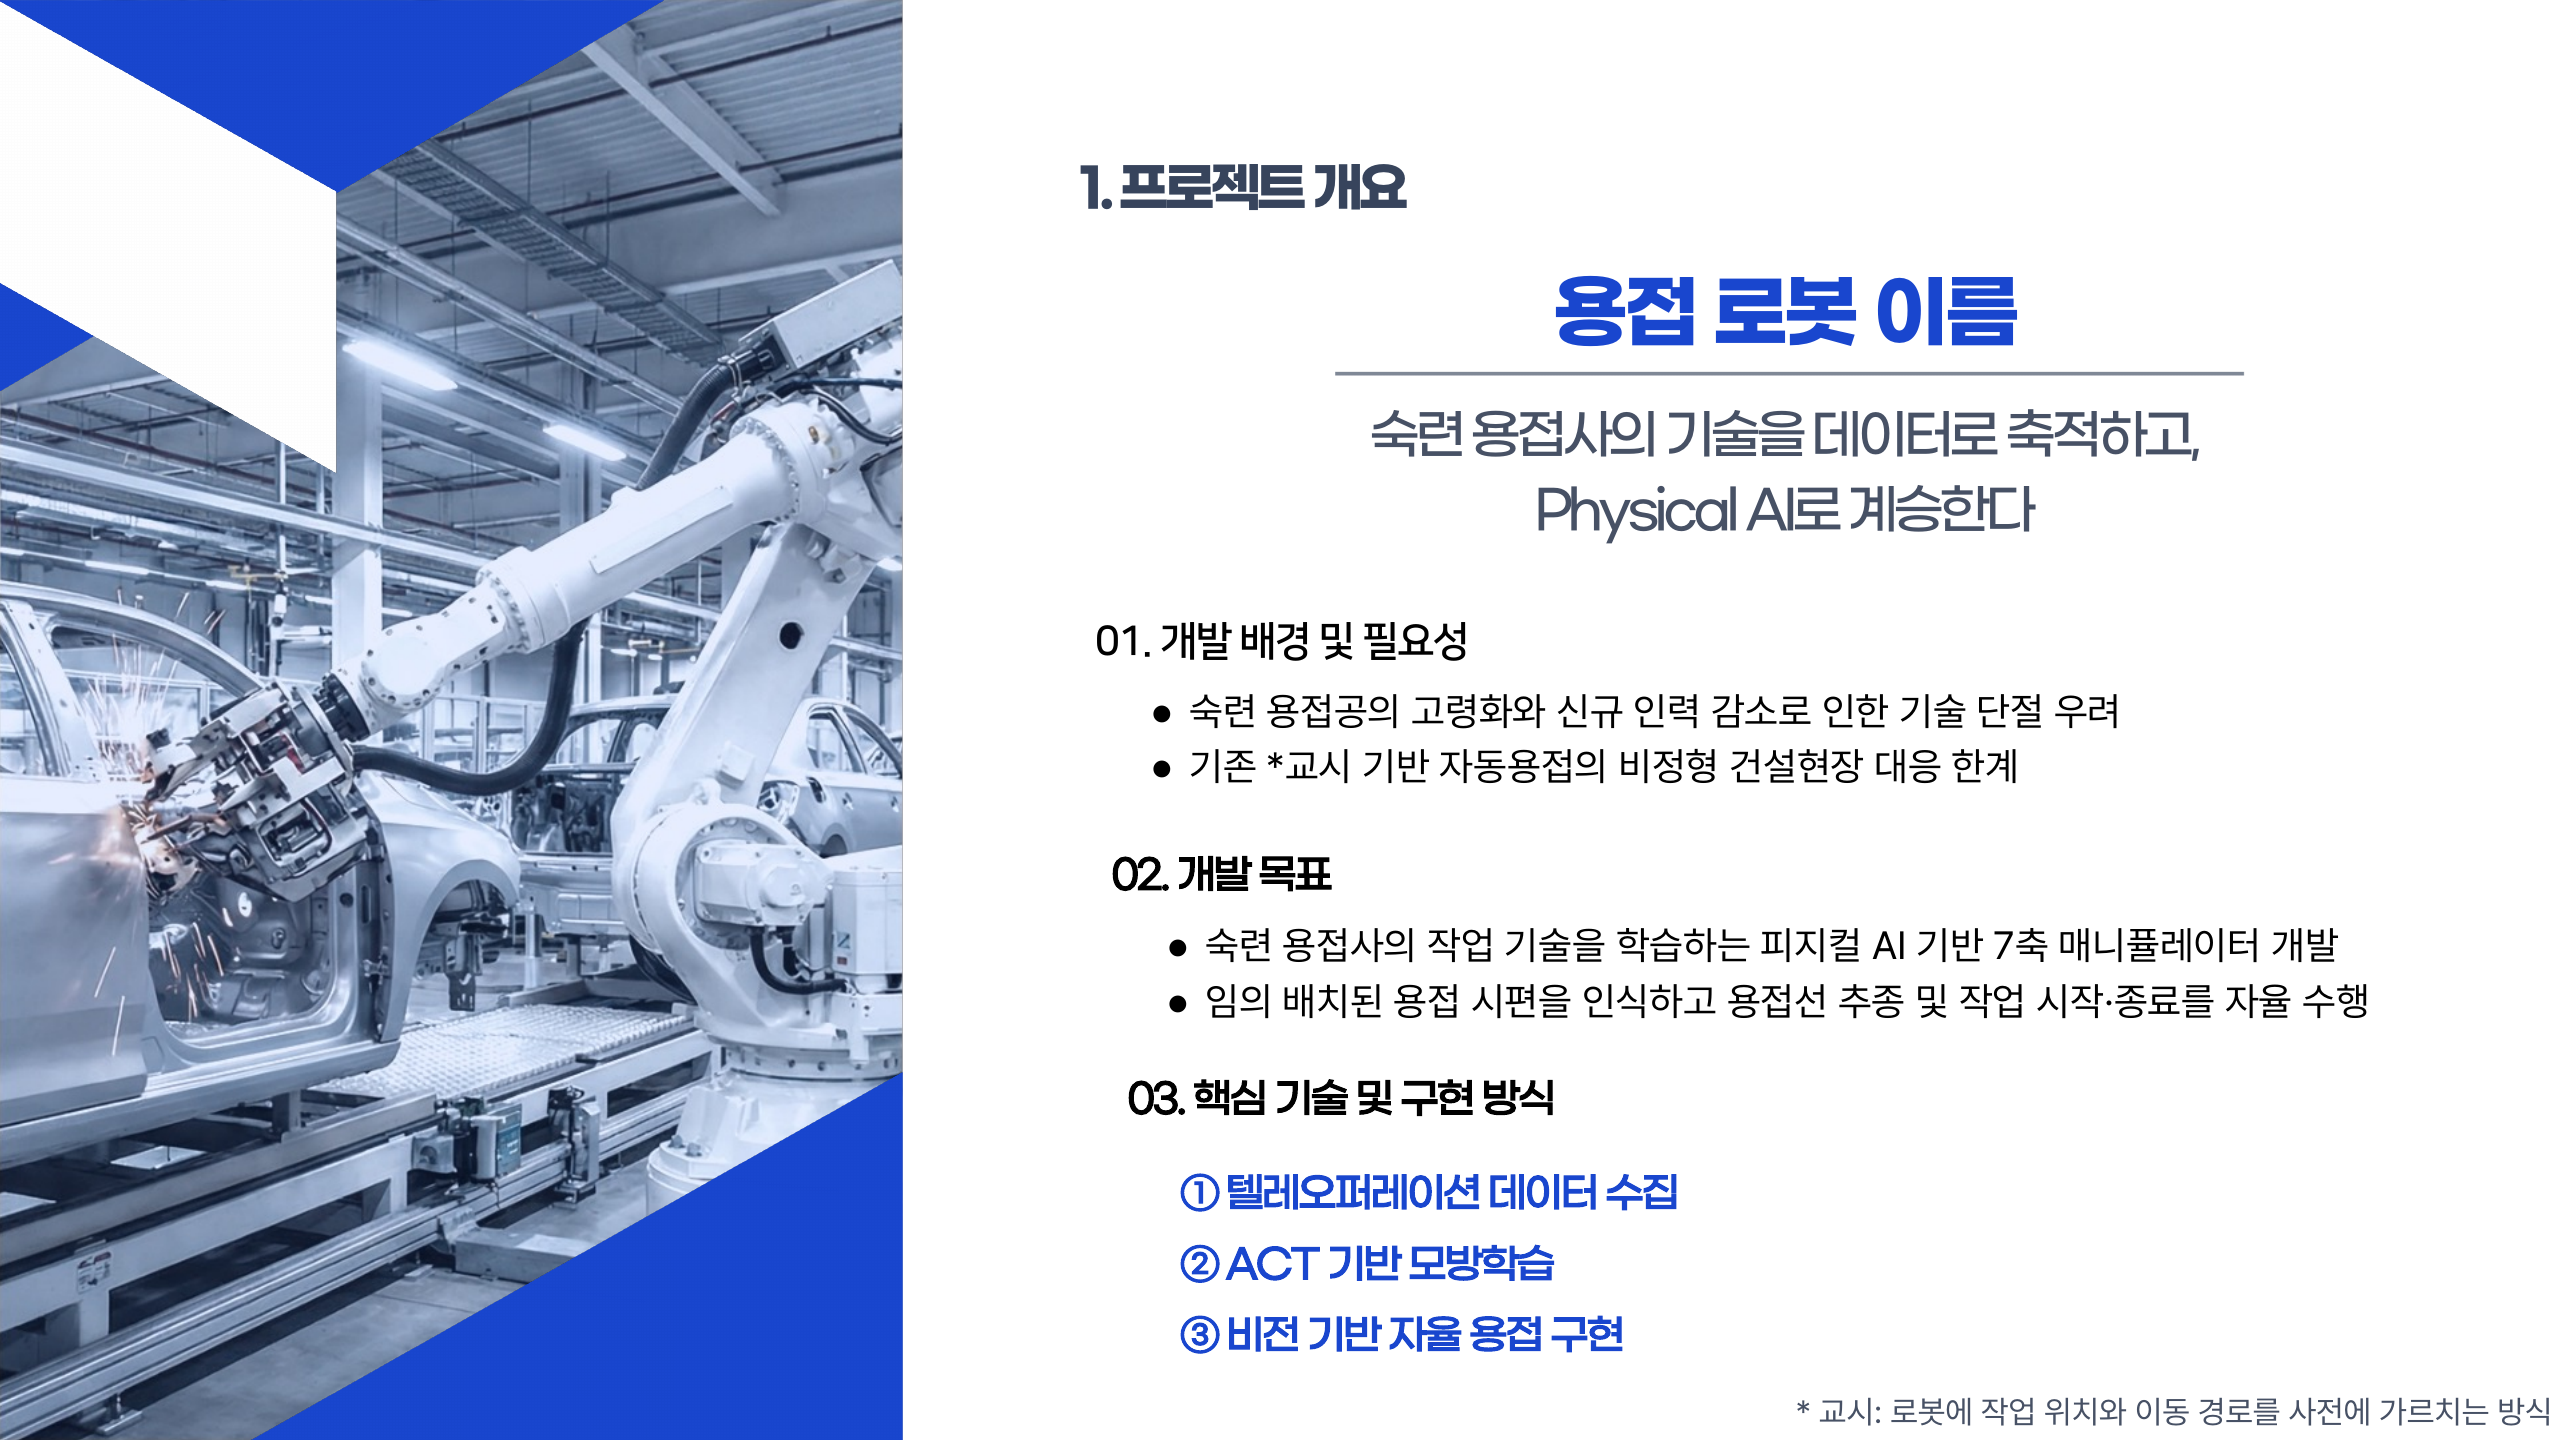
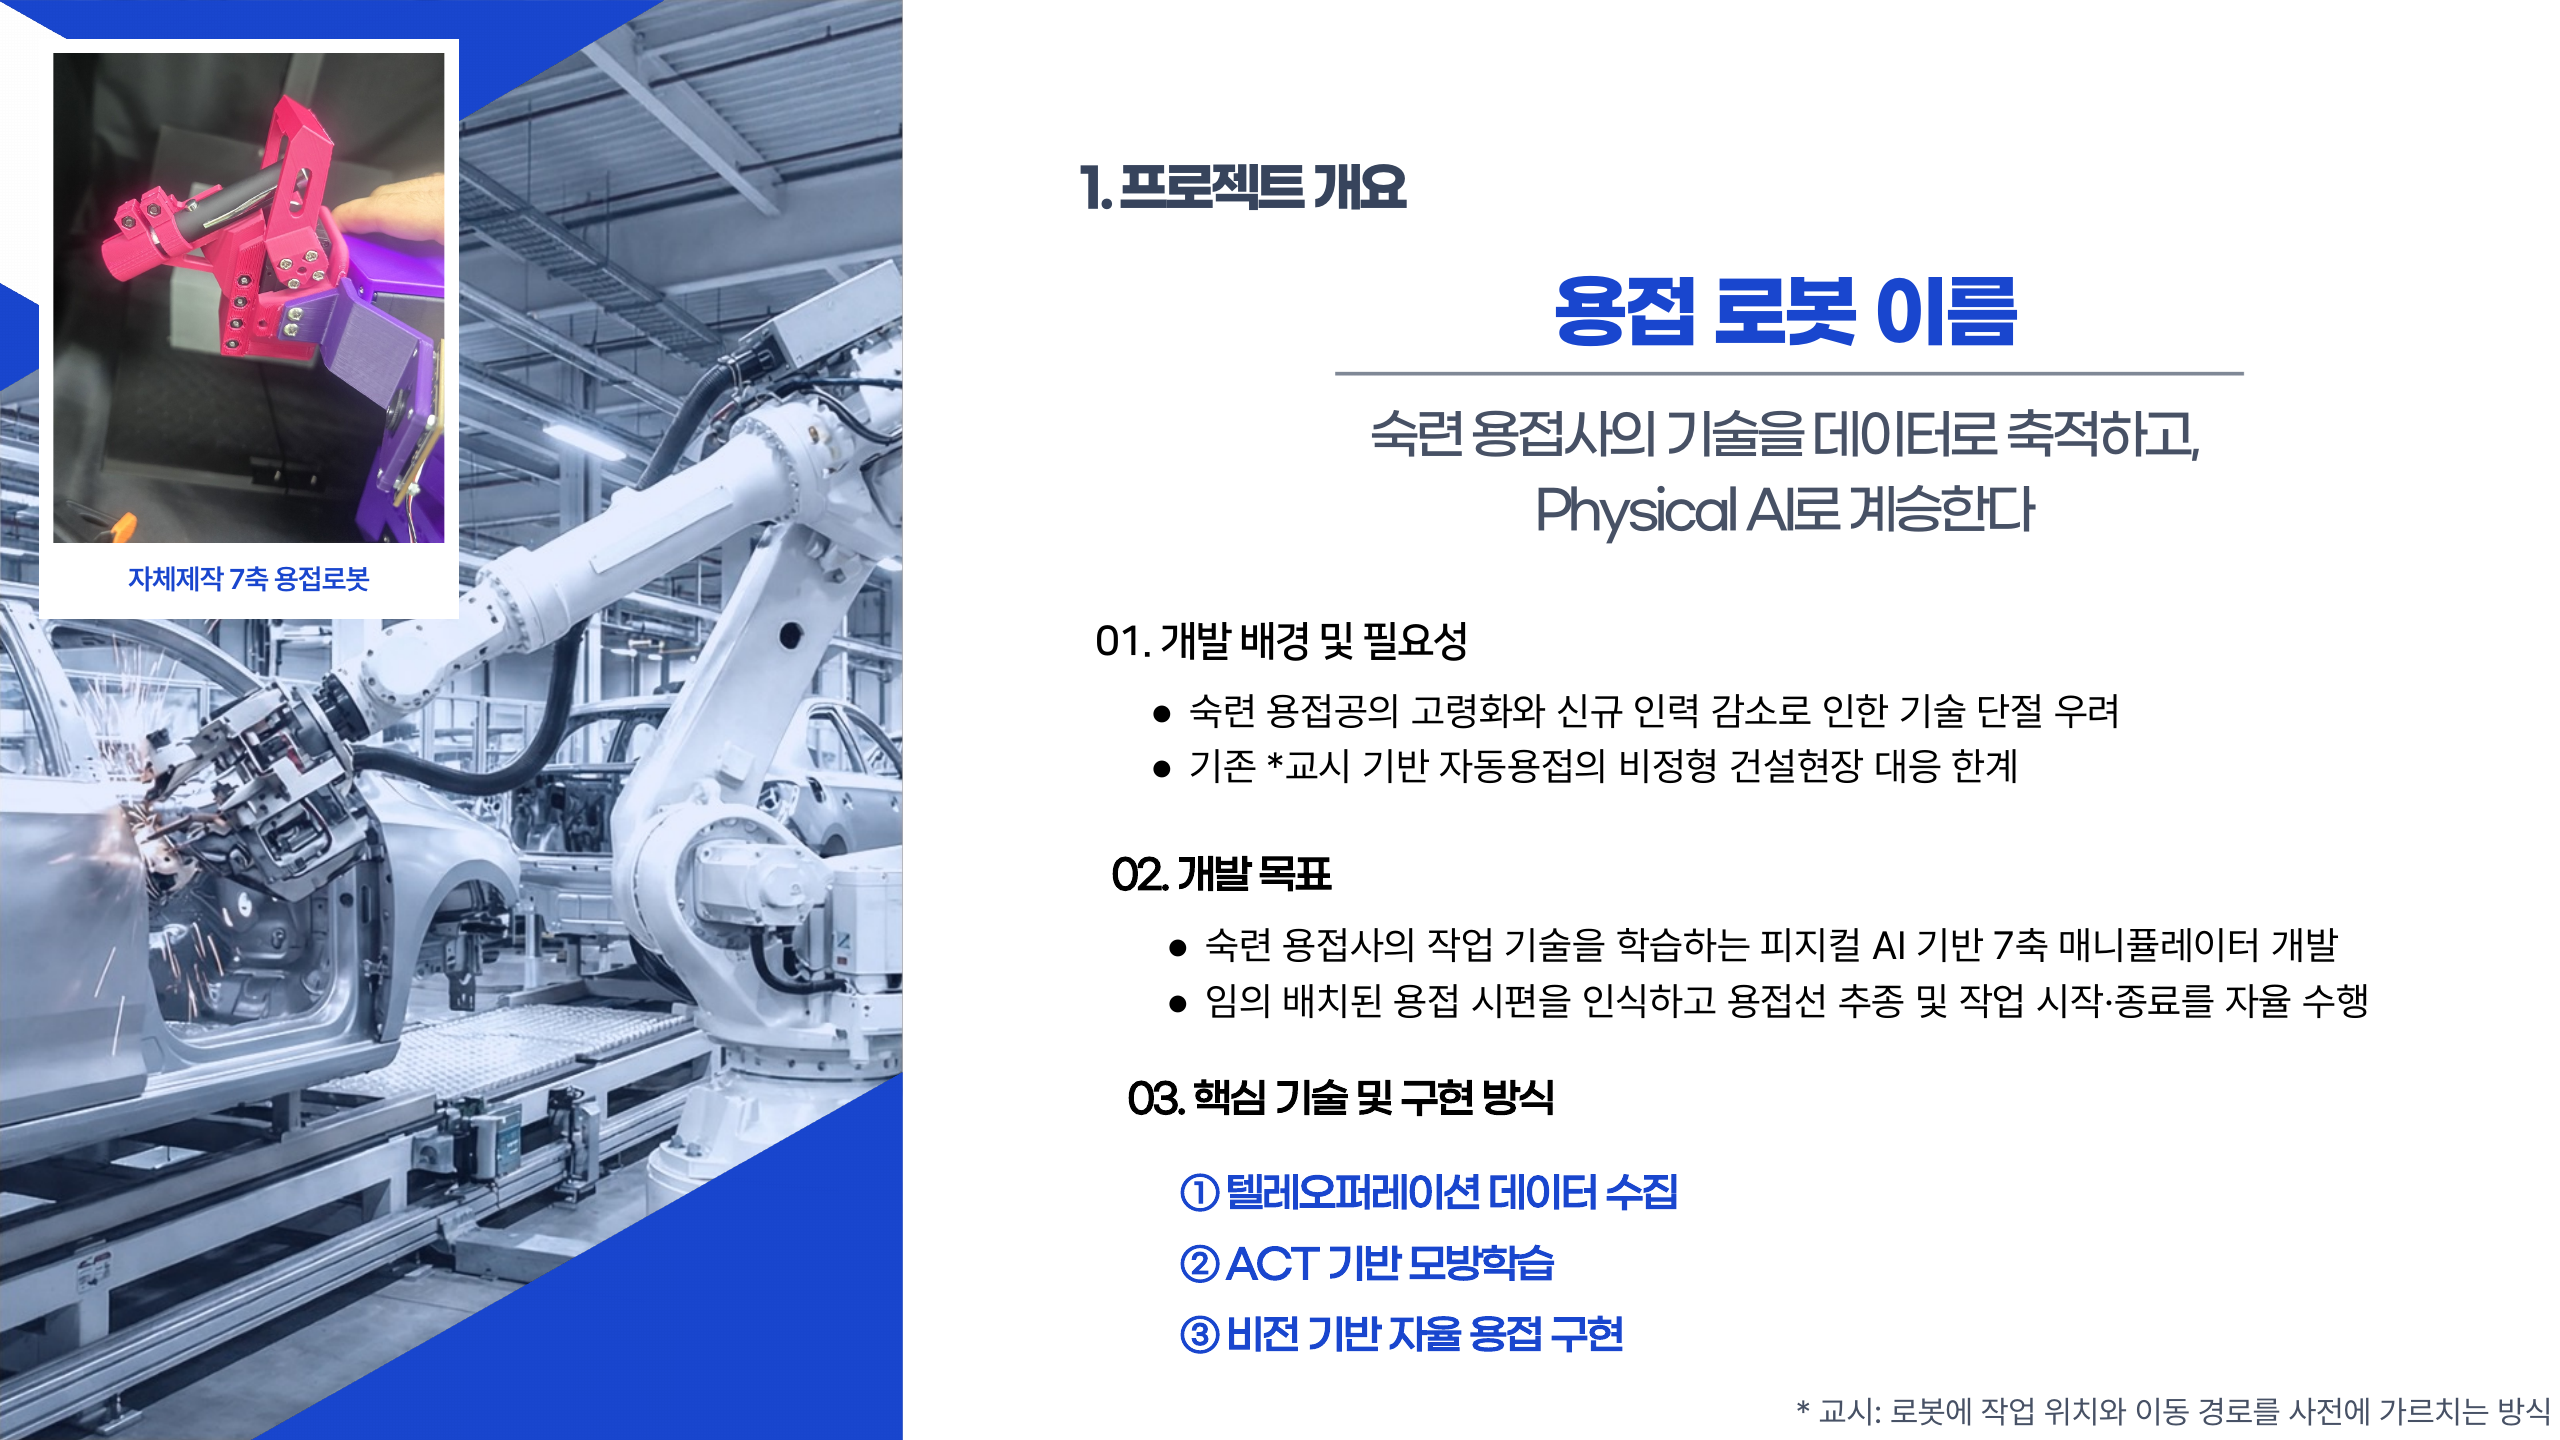
3장에 자체제작 용접로봇 사진, 15장에 OPTi3 실제 아크 용접 영상 추가

Changed region(s): [[0.0, 0.0, 0.1875, 0.4375]]

diff --git a/index.html b/index.html
@@ -43,7 +43,7 @@
 <main class="stage" id="stage">
   <img class="slide" src="deck/final/01.png" alt="2026 IRC 지능로봇대회 매니퓰레이터 종목. 제조 디지털 전환(DX) 7축 용접 로봇. 손태산, 김광빈, 김동희, 왕혜영">
   <img class="slide" src="deck/final/02.png" alt="목차" loading="lazy">
-  <img class="slide" src="deck/final/03.png" alt="1. 프로젝트 개요" loading="lazy">
+  <img class="slide" src="deck/final/03.png" alt="1. 프로젝트 개요. 자체제작 7축 용접로봇 사진" loading="lazy">
   <img class="slide" src="deck/final/04.png" alt="2. 프로젝트 수행 배경" loading="lazy">
   <img class="slide" src="deck/final/05.png" alt="3. 프로젝트 수행 필요성" loading="lazy">
   <img class="slide" src="deck/final/06.png" alt="4. 개발 목표 및 차별성" loading="lazy">
@@ -56,10 +56,13 @@
   <img class="slide" src="deck/final/13.png" alt="10. 결론 및 향후 과제" loading="lazy">
   <img class="slide" src="deck/final/14.png" alt="10. 결론 및 향후 과제: 한계점과 향후 과제" loading="lazy">
   <div class="slide">
-    <img src="deck/final/15.png" alt="참고. 기존 룰 베이스 용접로봇: OPTi3 용접로봇 시연과 룰 베이스, 본 프로젝트(ACT) 비교" loading="lazy">
-    <!-- PPT 15장 영상 자리(60, 228, 800×450pt / 1440×810pt)에 맞춰 올린 실제 영상 -->
-    <video class="clip" style="left:4.1667%; top:28.148%; width:55.556%; height:55.556%;"
+    <img src="deck/final/15.png" alt="참고. 기존 룰 베이스 용접로봇: OPTi3 용접로봇 전시 시연과 실제 아크 용접 영상, 룰 베이스와 본 프로젝트(ACT) 비교" loading="lazy">
+    <!-- PPT 15장 영상 자리(x 60/468, y 330, 392×294pt / 1440×810pt)에 맞춰 올린 실제 영상 -->
+    <video class="clip" style="left:4.1667%; top:40.741%; width:27.222%; height:36.296%;"
            src="deck/img/posco_clip.mp4" poster="deck/final/opti3_poster.jpg"
+           muted loop playsinline controls preload="none"></video>
+    <video class="clip" style="left:32.5%; top:40.741%; width:27.222%; height:36.296%;"
+           src="deck/img/weld_clip.mp4" poster="deck/final/arc_poster.jpg"
            muted loop playsinline controls preload="none"></video>
   </div>
 </main>
